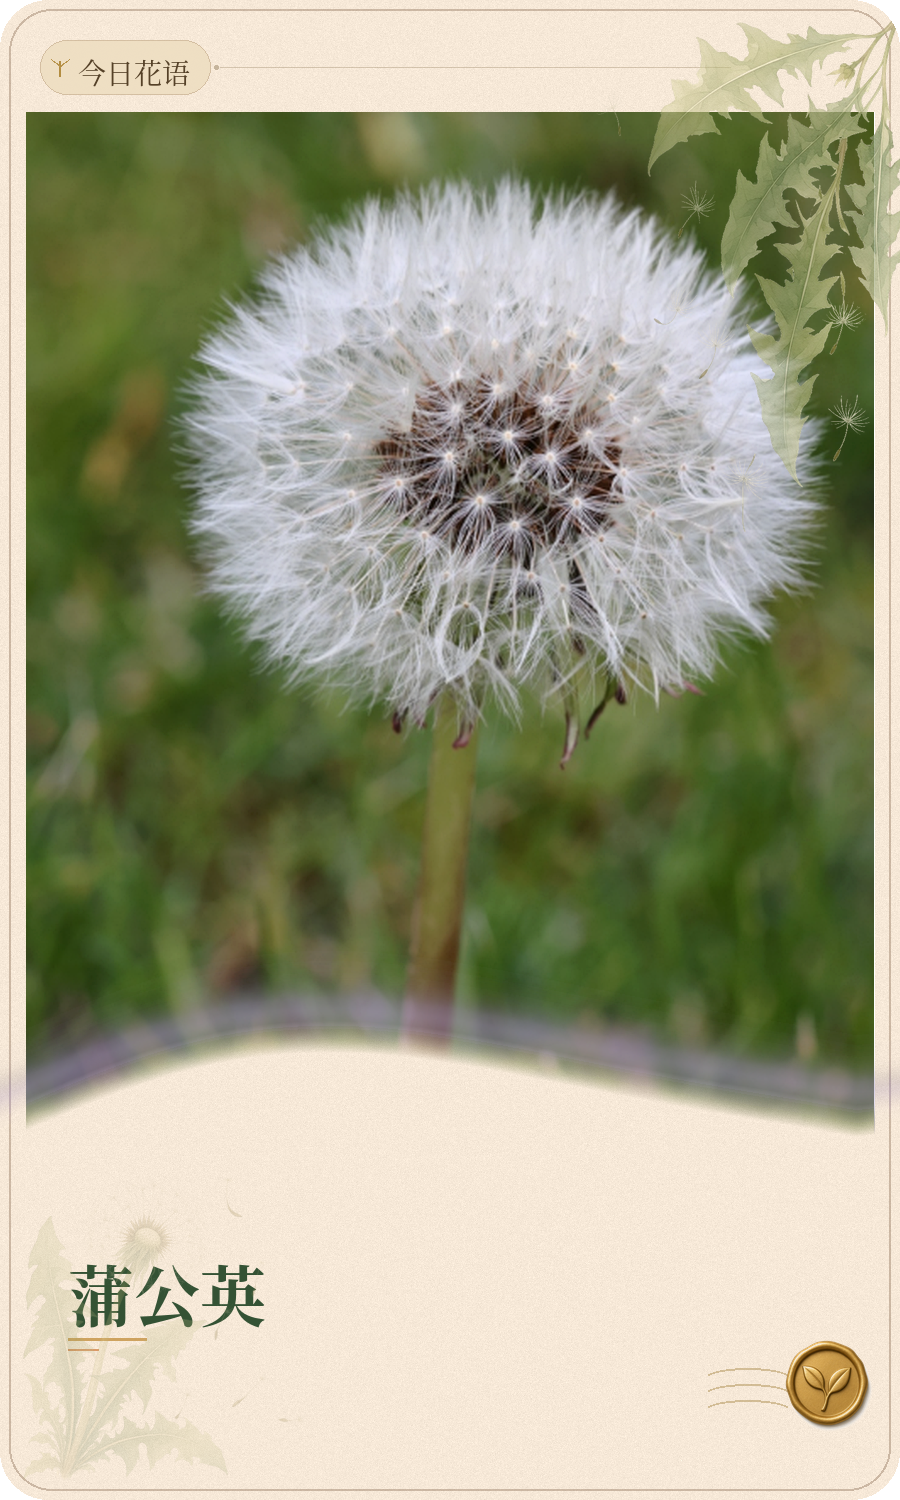
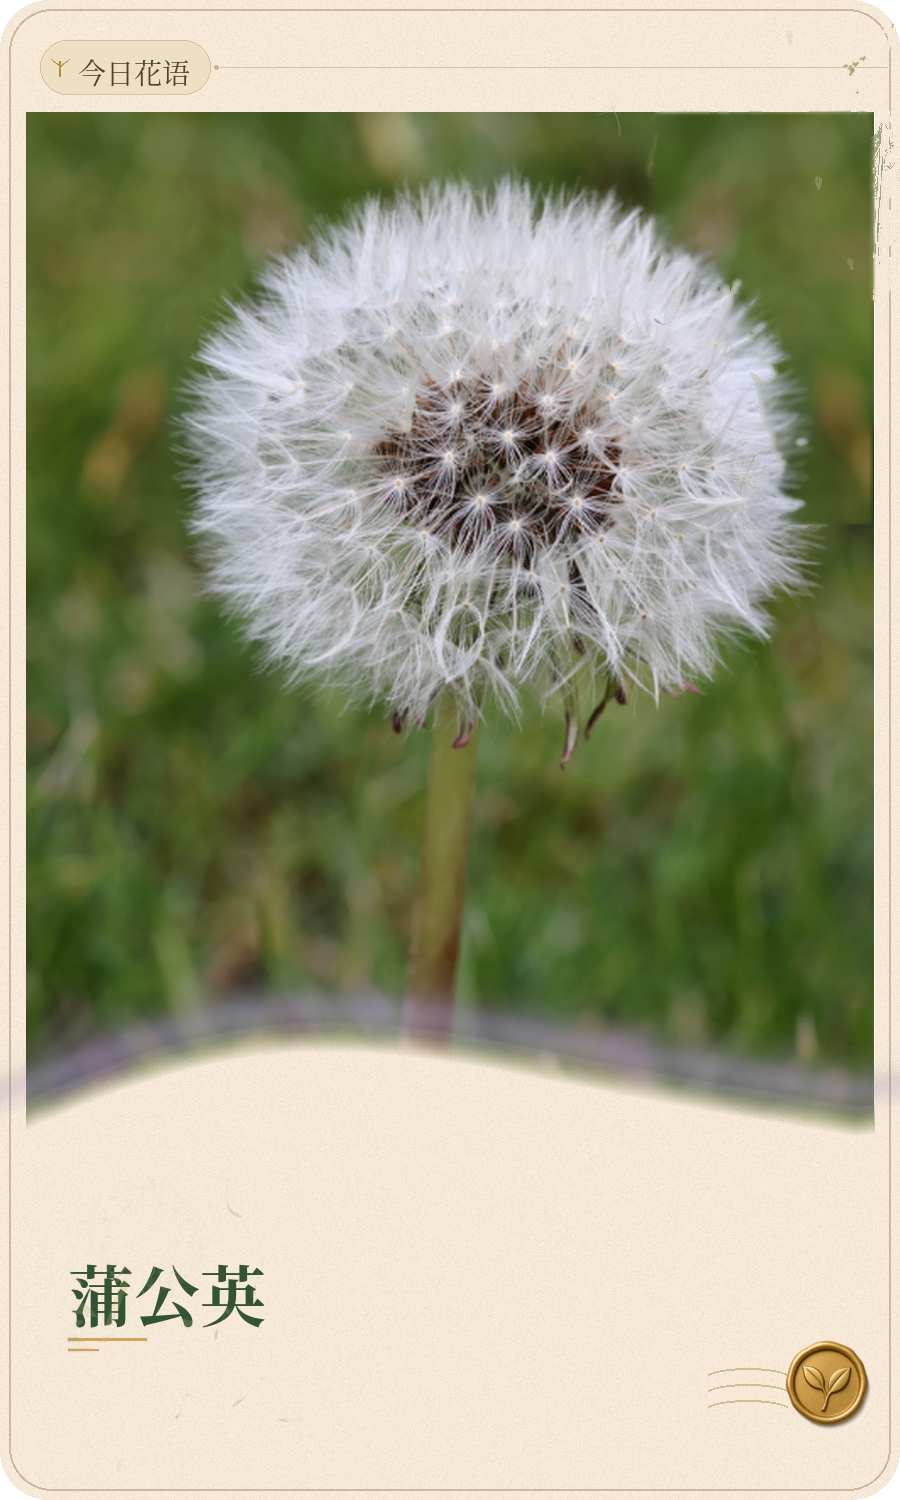
Remove jagged leaves from the dandelion flower cards.
Keep the soft seed-head, type, wave, and stamp, and leave only sparse fluff on the transparent 900x1500 cards.

Changed region(s): [[0.7156, 0.0, 1.0, 0.368], [0.0311, 0.828, 0.1867, 0.9813], [0.1244, 0.7973, 0.1867, 0.8587]]

diff --git a/assets/今日花语卡/README.md b/assets/今日花语卡/README.md
@@ -12,3 +12,5 @@
 | `每日花语卡-蒲公英-背面.png` | 与背面英文文件内容相同 |
 
 中文文件名是对应英文文件的完整副本，可直接下载使用。
+
+蒲公英这一组保留柔软的白色绒球。锯齿叶片已去掉，只留很少的飞絮；背面是大面积留白，点缀一只轻的绒球。
